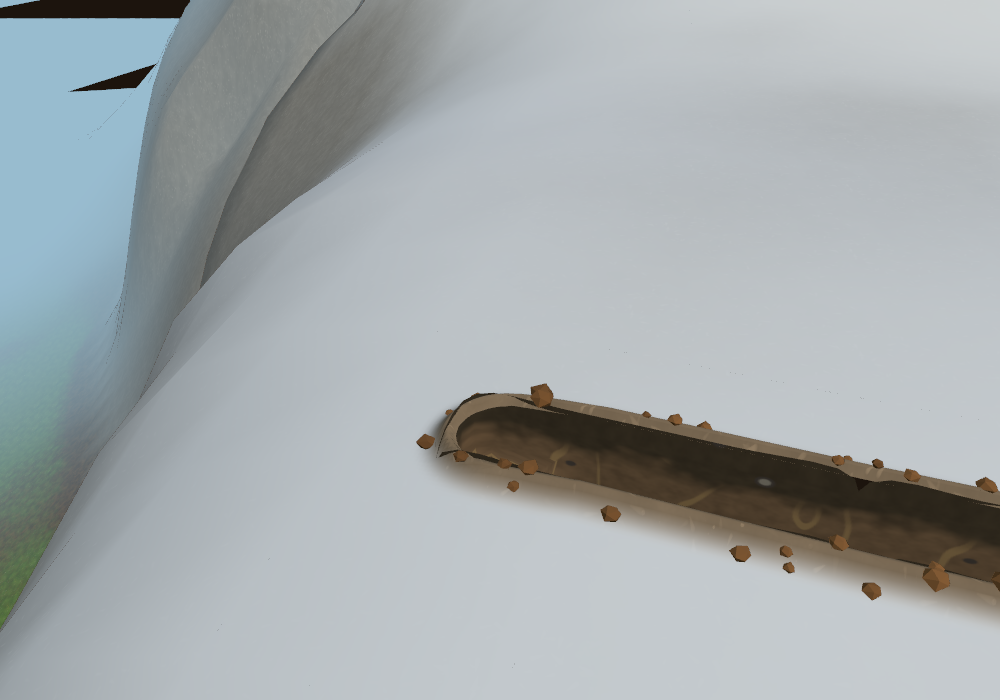
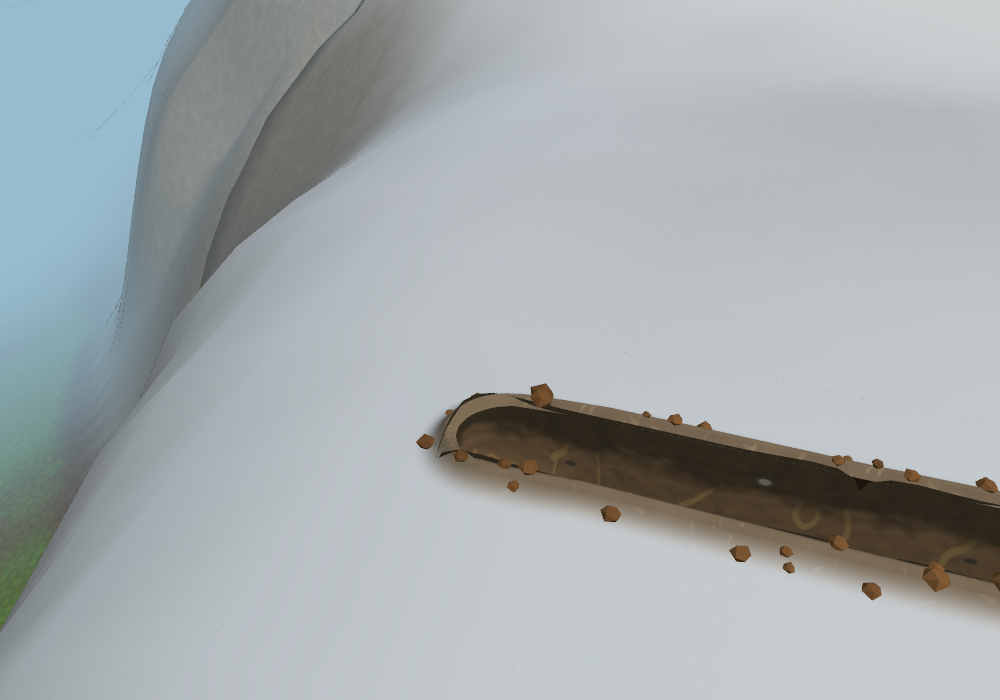
Keep the complete earth enclosure inside the camera range

Changed region(s): [[0.0, 0.0, 0.186, 0.03], [0.062, 0.09, 0.155, 0.15]]

diff --git a/apps/client/src/scene/underground-shell.ts b/apps/client/src/scene/underground-shell.ts
@@ -1,20 +1,12 @@
 import * as THREE from 'three/webgpu';
-import { Fn, cameraProjectionMatrix, modelViewMatrix, positionLocal, vec4, min } from 'three/tsl';
-
-/** Keep the earth backdrop at the far plane instead of clipping it into a sky-shaped gap. */
-function earthMaterial(color: number, side: THREE.Side) {
-  const material = new THREE.MeshBasicNodeMaterial({ color, side, fog: false });
-  material.vertexNode = Fn(() => {
-    const clip = cameraProjectionMatrix.mul(modelViewMatrix).mul(vec4(positionLocal, 1)).toVar();
-    return vec4(clip.xy, min(clip.z, clip.w.mul(0.999999)), clip.w);
-  })();
-  return material;
-}
 
 /** Close the terrain's underside at its perimeter; cracks in dug lining must see earth, not sky. */
 export function createUnderground(geometry: THREE.BufferGeometry, size: number): THREE.Group {
   const group = new THREE.Group();
-  const under = new THREE.Mesh(geometry, earthMaterial(0x4a3524, THREE.BackSide));
+  const under = new THREE.Mesh(
+    geometry,
+    new THREE.MeshBasicMaterial({ color: 0x4a3524, side: THREE.BackSide, fog: false }),
+  );
   const positions = geometry.getAttribute('position');
   let bottom = -40;
   for (let i = 0; i < positions.count; i++) bottom = Math.min(bottom, positions.getY(i) - 20);
@@ -46,8 +38,10 @@ export function createUnderground(geometry: THREE.BufferGeometry, size: number):
   triangle([h, bottom, -h], [-h, bottom, h], [h, bottom, h]);
   const enclosure = new THREE.BufferGeometry();
   enclosure.setAttribute('position', new THREE.Float32BufferAttribute(vertices, 3));
-  const shell = new THREE.Mesh(enclosure, earthMaterial(0x1c140d, THREE.DoubleSide));
-  under.frustumCulled = shell.frustumCulled = false;
+  const shell = new THREE.Mesh(
+    enclosure,
+    new THREE.MeshBasicMaterial({ color: 0x1c140d, side: THREE.DoubleSide, fog: false }),
+  );
   group.add(under, shell);
   return group;
 }

diff --git a/apps/client/test/underground-shell.test.ts b/apps/client/test/underground-shell.test.ts
@@ -2,6 +2,7 @@ import * as THREE from 'three/webgpu';
 import { expect, it, vi } from 'vitest';
 import { createUnderground } from '../src/scene/underground-shell';
 import { createDigScene } from '../src/scene/digging';
+import { FollowCamera } from '../src/camera/follow-camera';
 import { installBvhRaycasting } from '../src/scene/bvh';
 
 it('closes every horizontal and downward view under sloping terrain without covering openings', () => {
@@ -84,5 +85,27 @@ it('includes rebuilt ground and its underside in camera collision, replacing sta
     scene.dispose();
     material.dispose();
     loader.mockRestore();
+  }
+});
+
+it('keeps the full-size earth enclosure within the camera range from the playable boundary', () => {
+  const geometry = new THREE.PlaneGeometry(940, 940, 8, 8).rotateX(-Math.PI / 2);
+  const shell = createUnderground(geometry, 940);
+  shell.updateMatrixWorld(true);
+  const camera = new FollowCamera(1).camera;
+  const ray = new THREE.Raycaster();
+  ray.far = camera.far;
+  for (const x of [-308, 308])
+    for (const z of [-308, 308])
+      for (let angle = 0; angle < Math.PI * 2; angle += Math.PI / 16) {
+        ray.set(
+          new THREE.Vector3(x, -10, z),
+          new THREE.Vector3(Math.cos(angle), 0, Math.sin(angle)),
+        );
+        expect(ray.intersectObject(shell, true).length).toBeGreaterThan(0);
+      }
+  for (const mesh of shell.children as THREE.Mesh[]) {
+    mesh.geometry.dispose();
+    (mesh.material as THREE.Material).dispose();
   }
 });

diff --git a/apps/client/src/camera/follow-camera.ts b/apps/client/src/camera/follow-camera.ts
@@ -72,7 +72,8 @@ export class FollowCamera {
   private outdoorLook: CameraLook | null = null;
 
   constructor(aspect: number) {
-    this.camera = new THREE.PerspectiveCamera(58, aspect, 0.1, 400);
+    // Include the full terrain enclosure so far clipping cannot expose sky below a dig.
+    this.camera = new THREE.PerspectiveCamera(58, aspect, 0.1, 1500);
     this.raycaster.far = RESTING_DISTANCE;
     // three-mesh-bvh only needs the first hit, which is much faster.
     this.raycaster.firstHitOnly = true;

diff --git a/apps/client/src/gallery/gallery.ts b/apps/client/src/gallery/gallery.ts
@@ -497,7 +497,12 @@ export async function startGallery(canvas: HTMLCanvasElement): Promise<void> {
     if (made.update !== undefined) updaters.push(made.update);
   }
 
-  const camera = new THREE.PerspectiveCamera(50, window.innerWidth / window.innerHeight, 0.05, 300);
+  const camera = new THREE.PerspectiveCamera(
+    50,
+    window.innerWidth / window.innerHeight,
+    0.05,
+    1500,
+  );
   const target = new THREE.Vector3(0, 0.6, 0);
   let distance = 17;
   let height = 8;

diff --git a/docs/decisions/0211-sealed-underground.md b/docs/decisions/0211-sealed-underground.md
@@ -7,8 +7,13 @@ terrain skins around dig mouths were pickable but absent from camera collision.
 
 Close the backdrop with perimeter walls following the actual terrain boundary and
 a bottom below the lowest ground. Render its interior in unlit, unfogged earth
-colours. Clamp only this backdrop’s clip-space depth to the far plane, so it
-remains closed beyond the camera range without extending the scene draw distance.
+colours. Extend the follow camera and outdoor gallery far plane to 1,500 m,
+enough to contain the 940 m terrain enclosure even diagonally. Otherwise the
+far clip plane can cut away its walls and reopen the sky below ground. Keep
+normal depth projection; clamping backdrop vertices independently caused
+silhouette artifacts at steep camera angles. Existing fog and object distance
+culling still control what is visible above ground, though the larger frustum
+can admit additional distant geometry.
 The terrain underside still shares the live ground geometry, preserving
 real dug openings. This is a visual enclosure, not a new collision floor.
 
